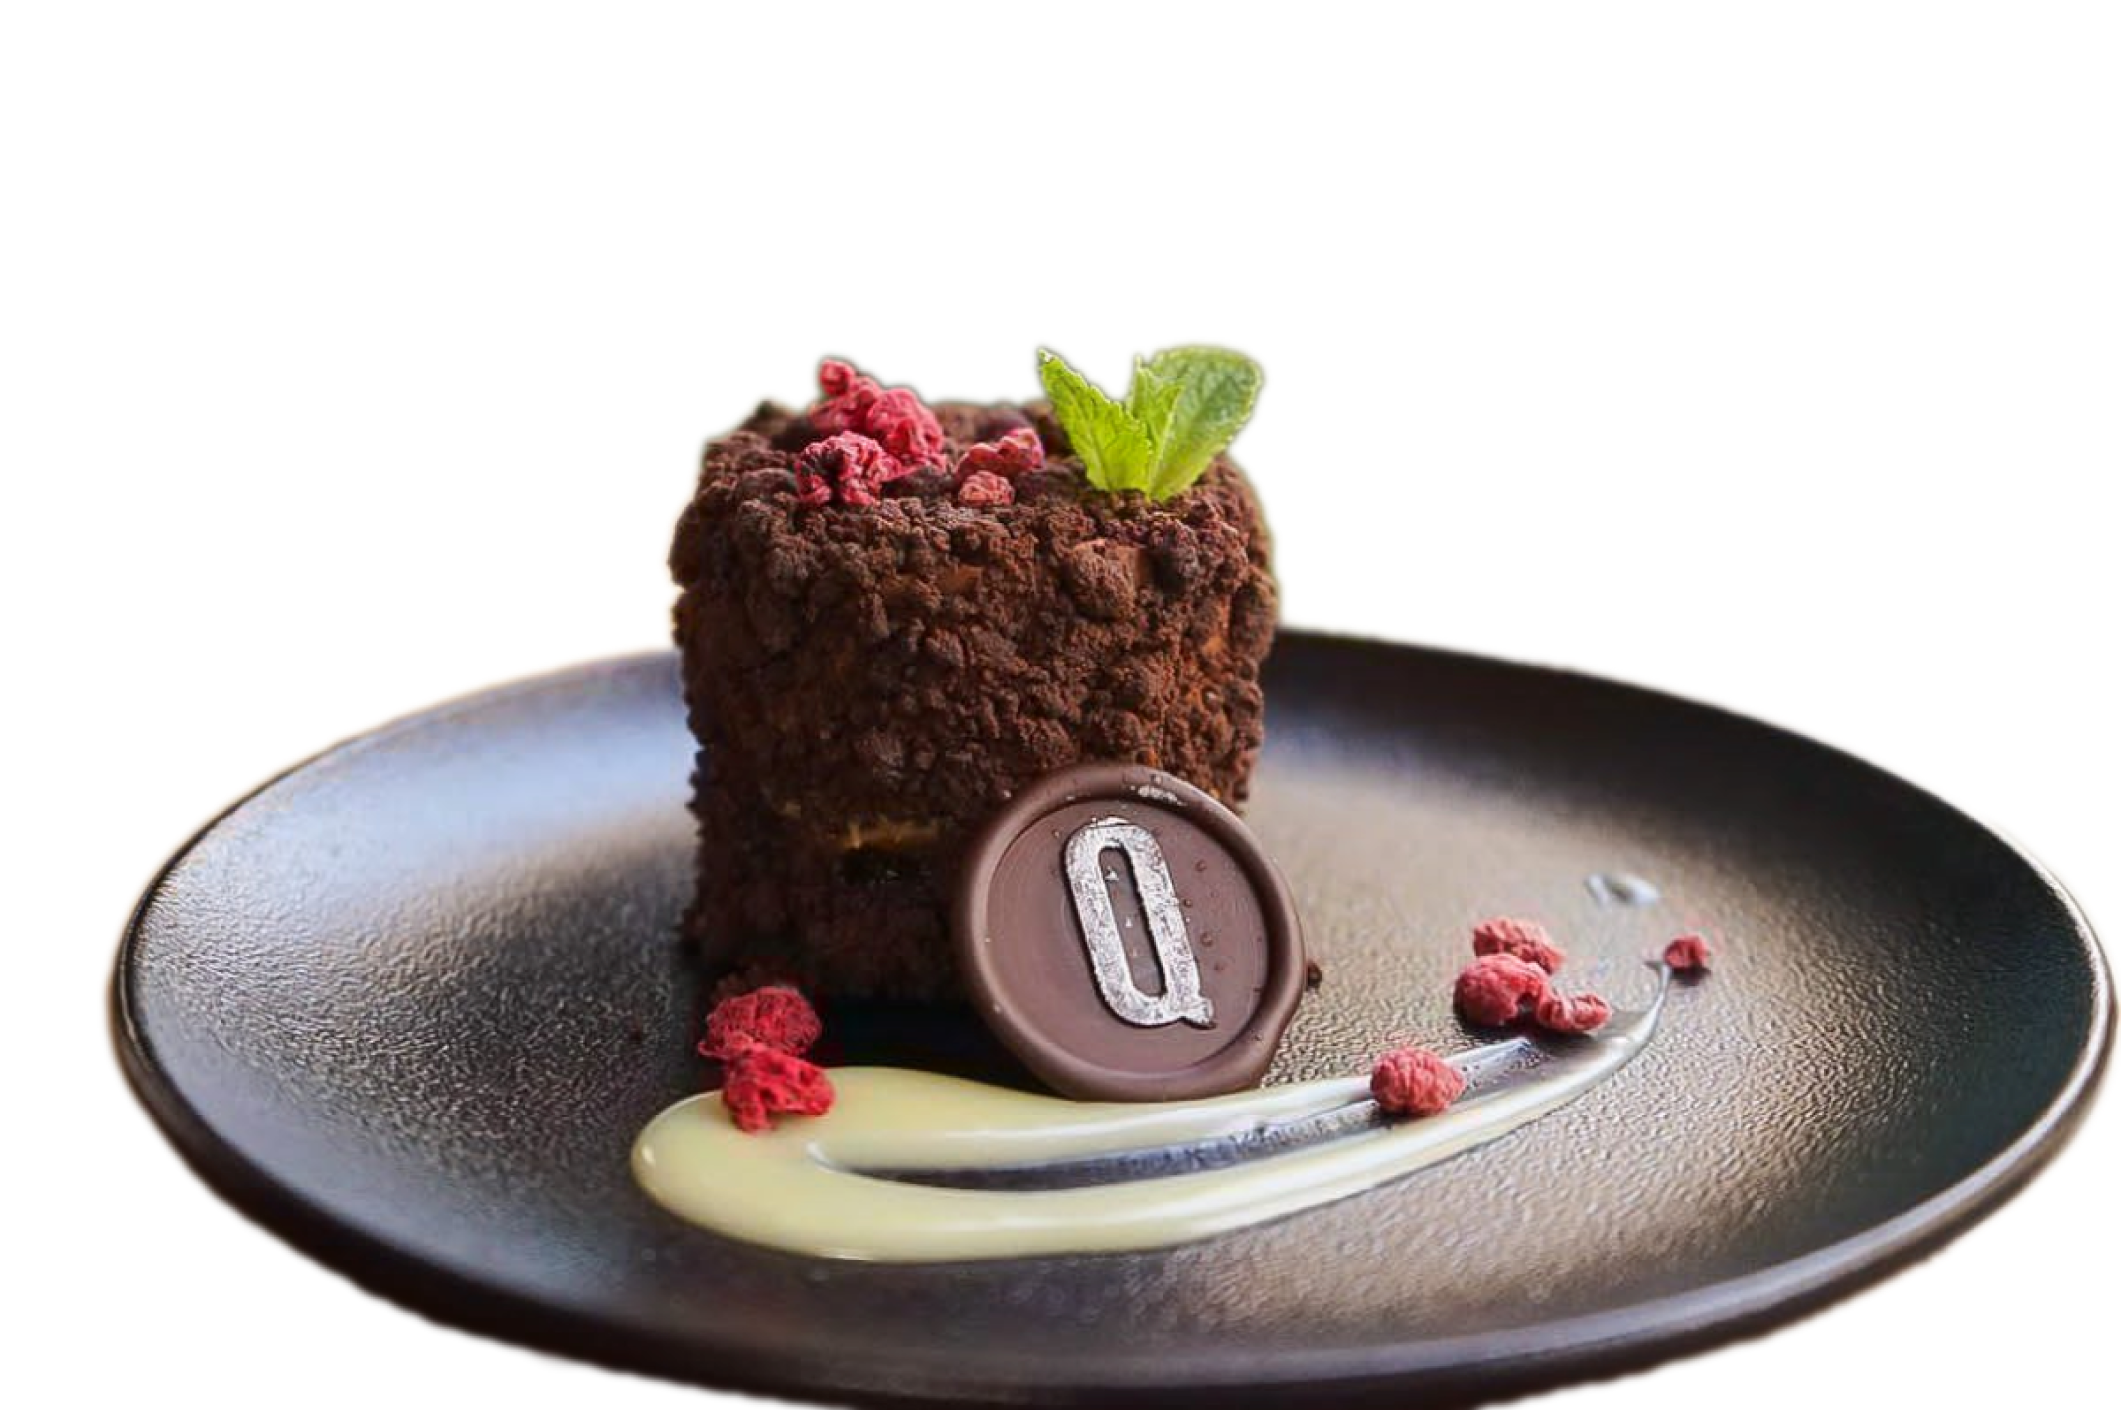
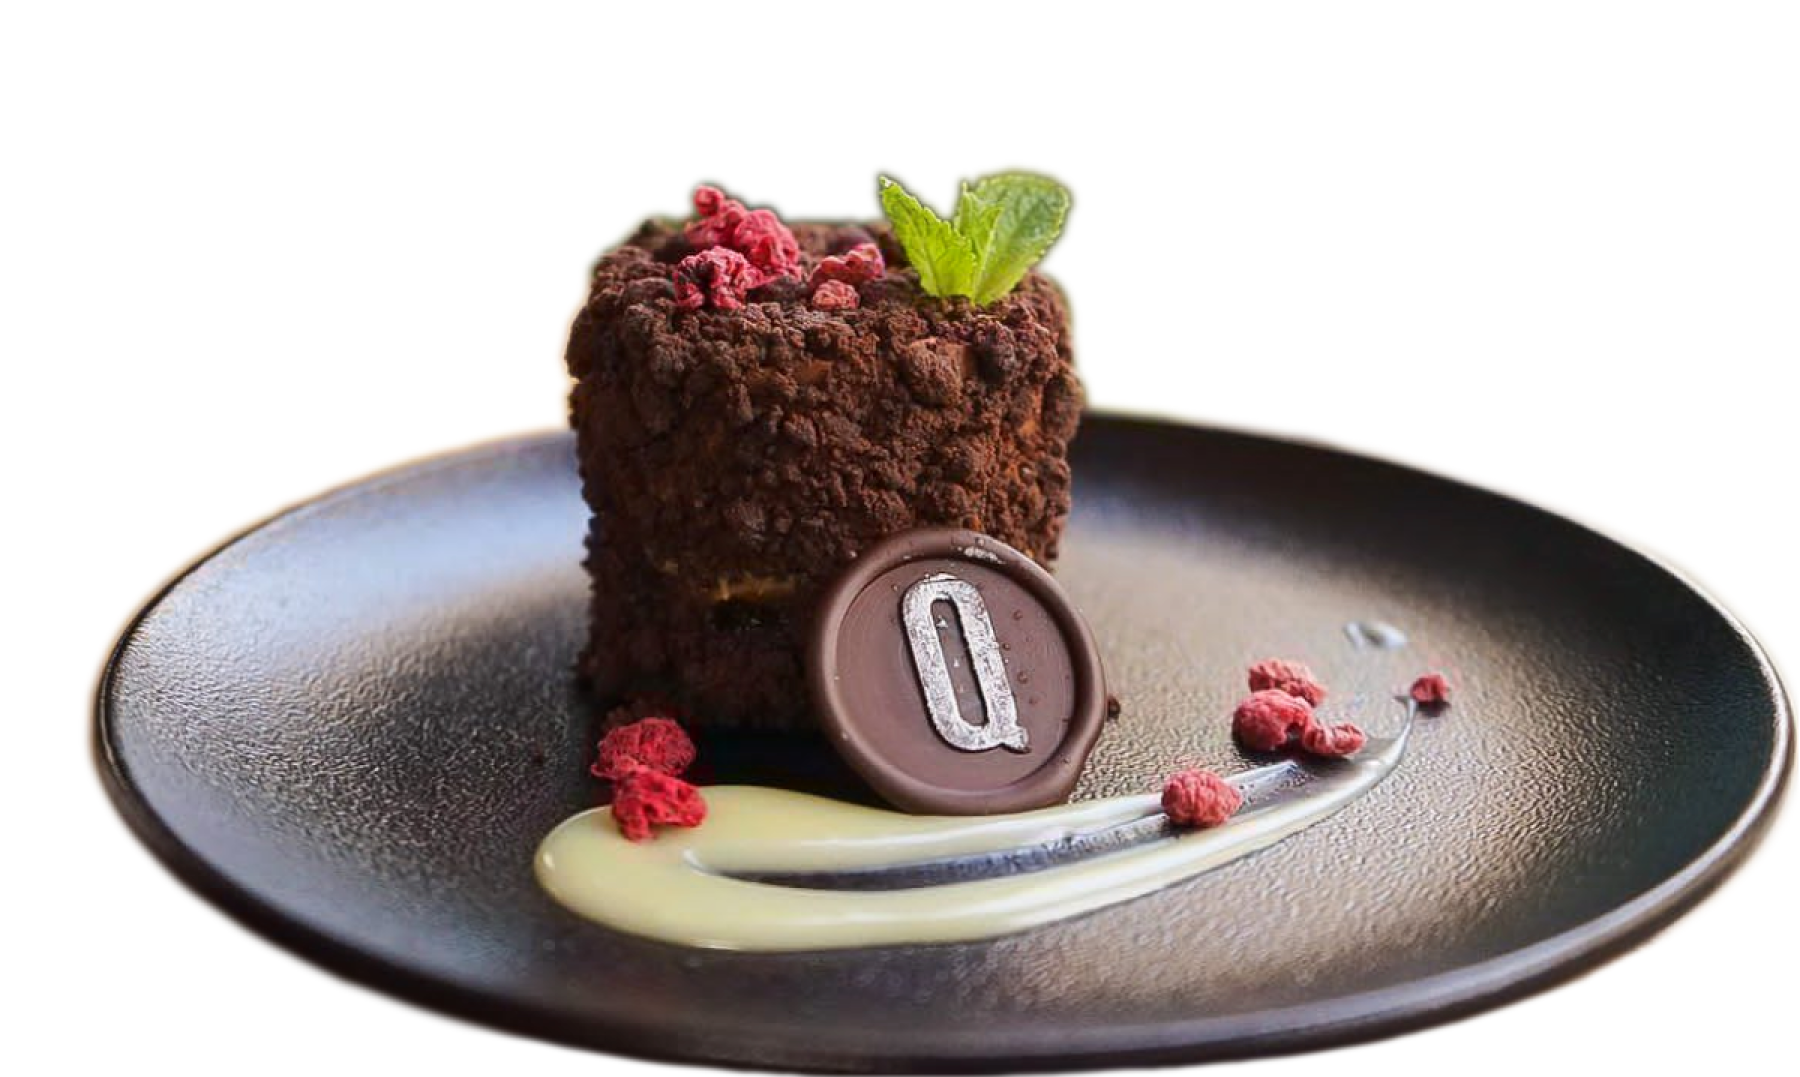
V

diff --git a/app/components/Food.tsx b/app/components/Food.tsx
@@ -10,12 +10,12 @@ export default async function Food(): Promise<JSX.Element> {
   return (
     <>
       <div className="grid grid-cols-1 lg:grid-cols-5 gap-x-6 items-end mt-20 relative">
-        <div className="absolute w-full lg:w-[490px] h-[540px] sm:h-[460px] md:h-[372px] rounded-3xl shadow-2xl dark:bg-[#394940] bg-[#B96001] -z-10" />
+        <div className="absolute w-full lg:w-[490px] h-[540px] sm:h-[460px] md:h-[372px] rounded-3xl xl:rounded-br-[4rem] shadow-2xl dark:bg-[#394940] bg-[#B96001] -z-10" />
         <div className="lg:col-span-3 relative z-10">
           <Image
             src={dessert}
             alt="Dessert"
-            className="w-[480px] md:w-[580px] xl:w-[620px] h-auto xl:ml-[70px] mx-auto"
+            className="w-[480px] md:w-[580px] xl:w-[620px] h-auto xl:ml-[70px] mx-auto sm:-mb-8 md:mb-0"
           />
         </div>
 
